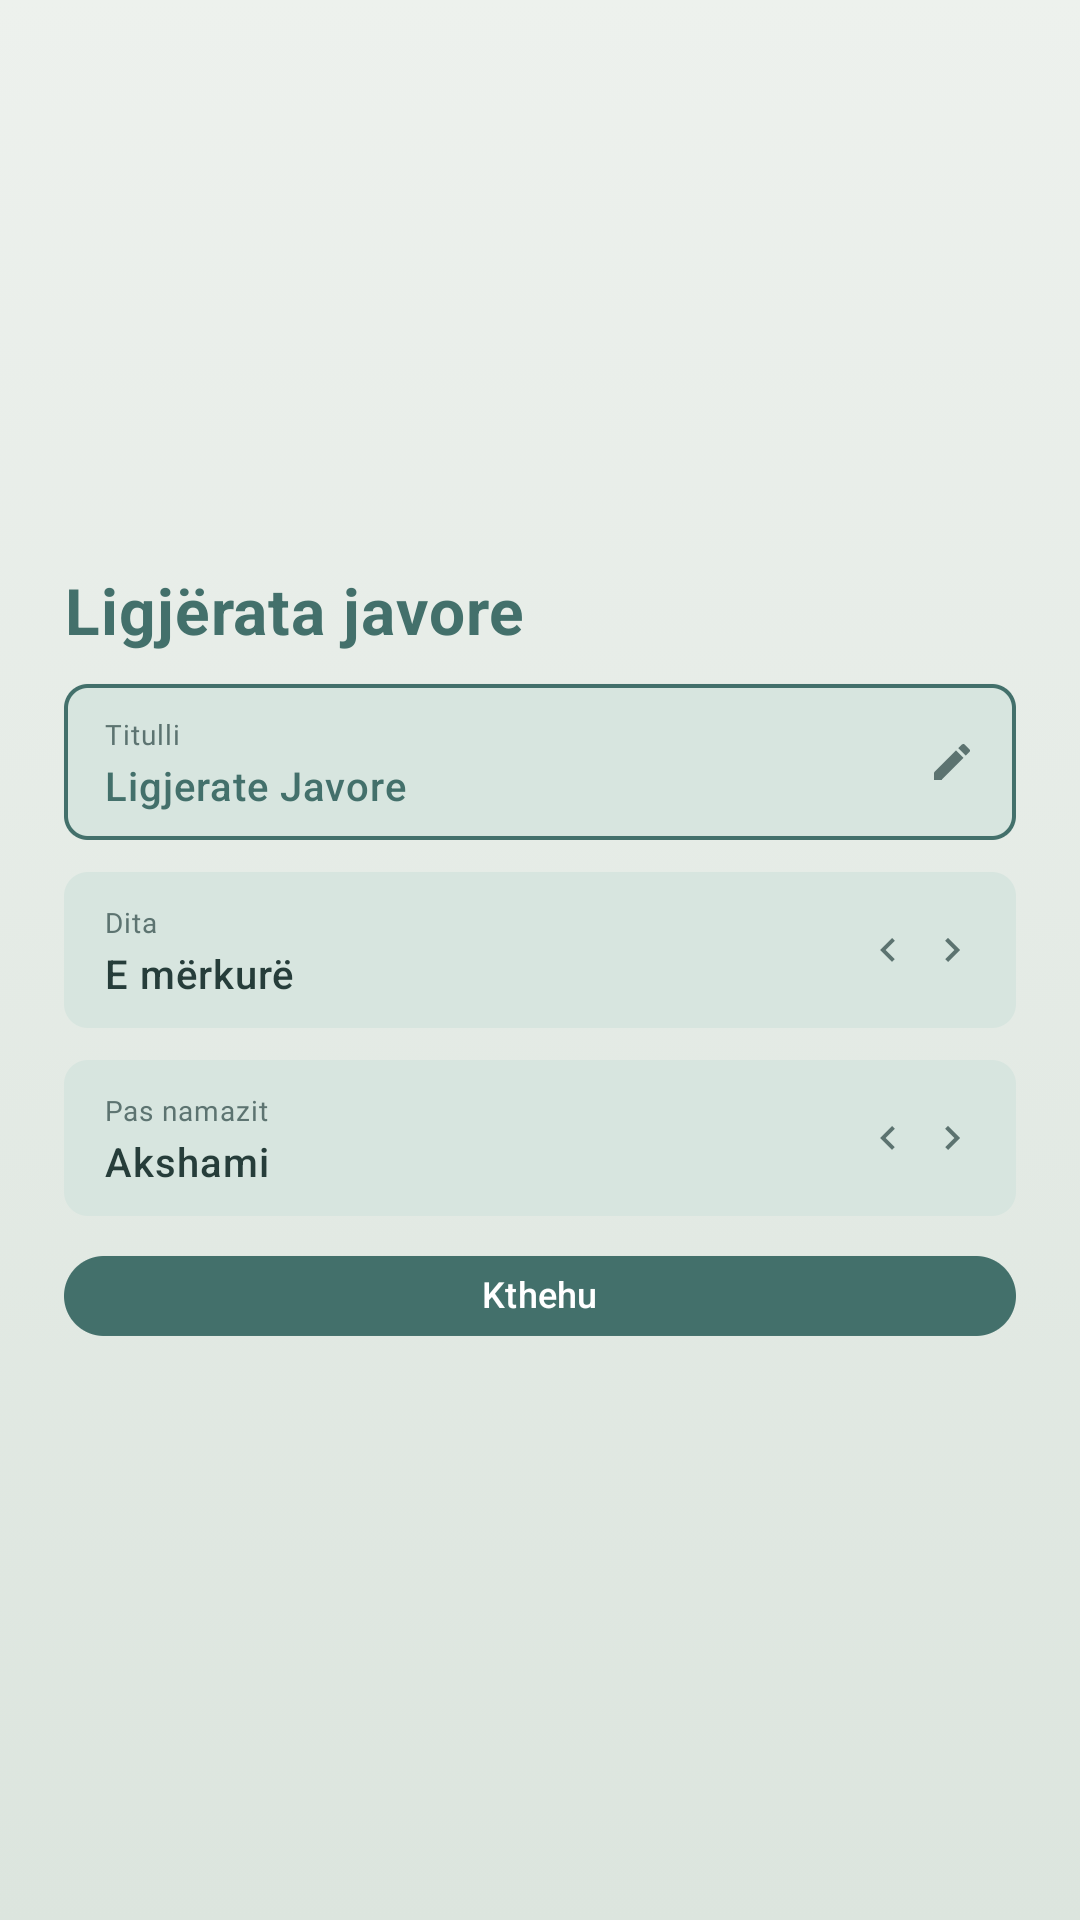
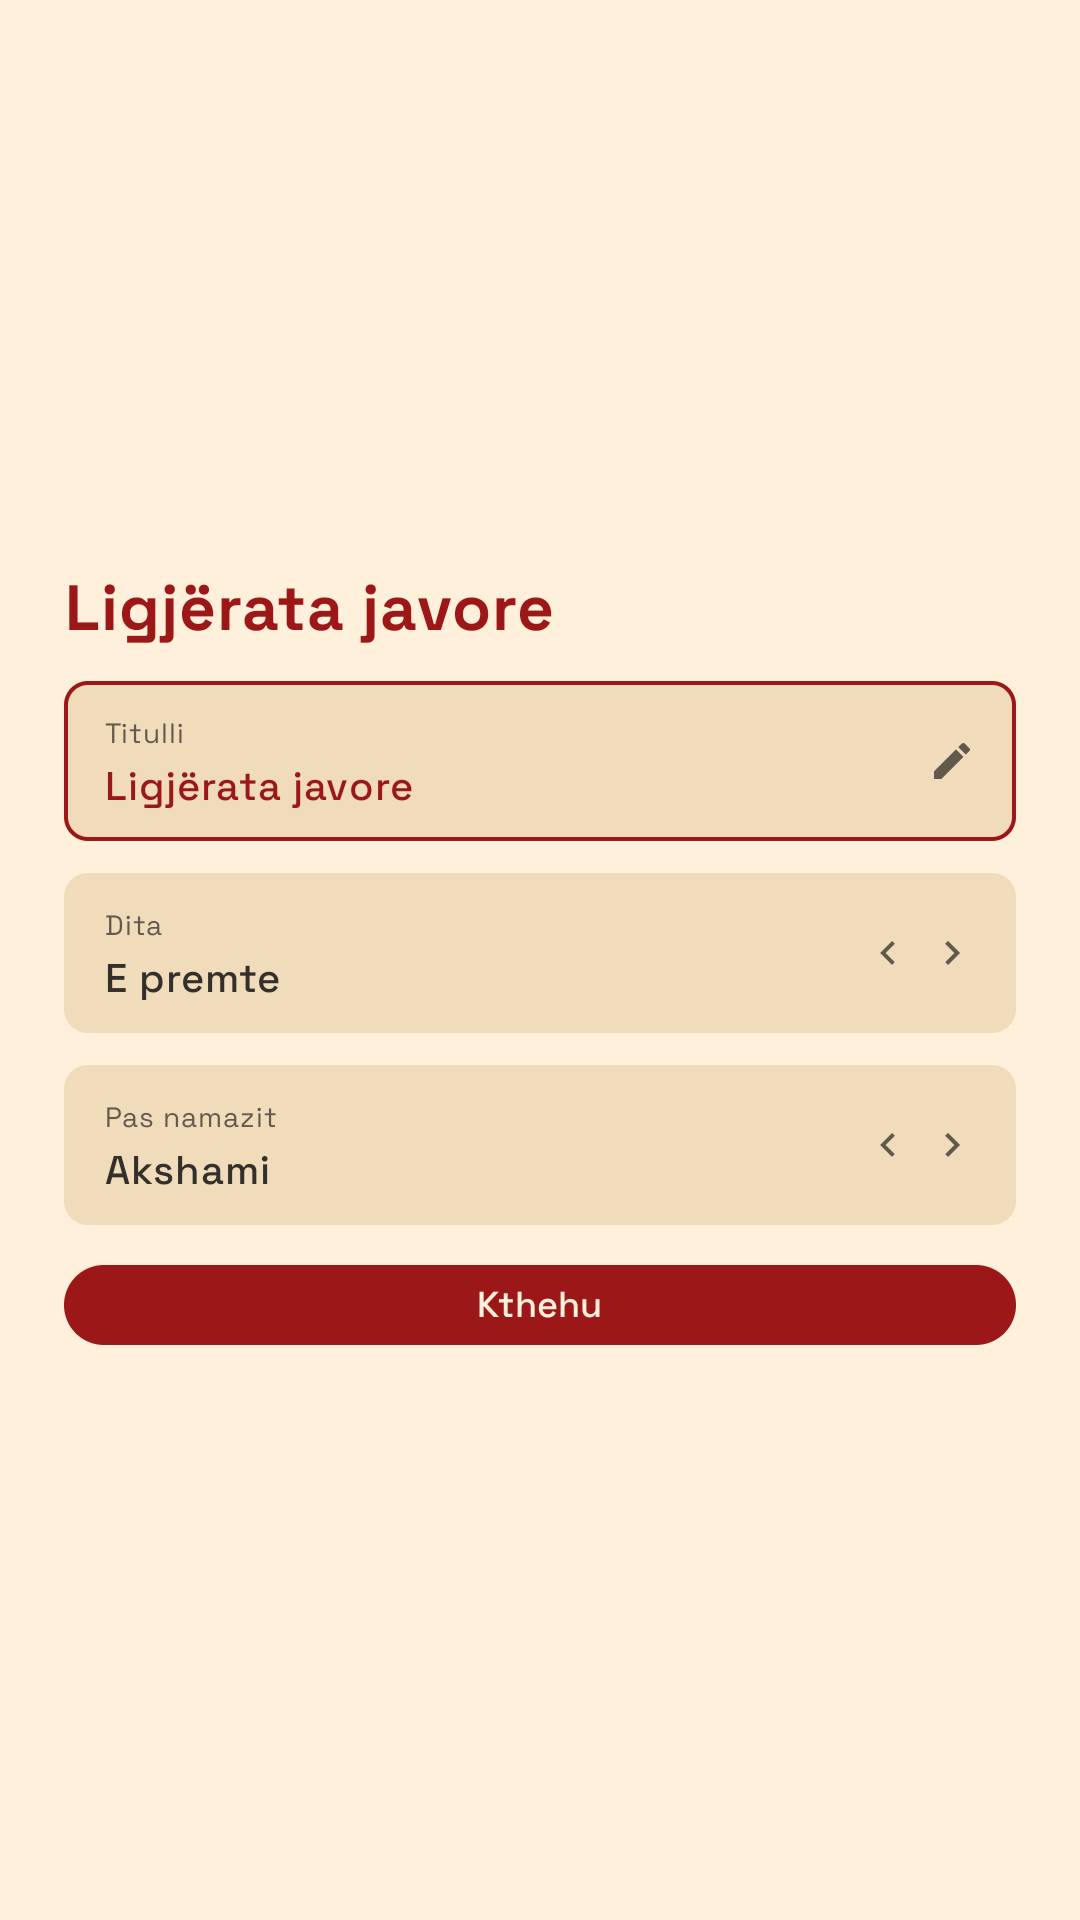
Add weekly theme rotation feature with light and dark variants

diff --git a/README.md b/README.md
@@ -48,8 +48,8 @@ Between Jacia (plus a configurable delay, so the congregation still sees the nor
 
 <table>
   <tr>
-    <td align="center"><b>Portrait board</b> (Gold theme)</td>
-    <td align="center"><b>Friday</b> — lecture banner, rotating notice card, pinned salawat (Green theme)</td>
+    <td align="center"><b>Portrait board</b> (Mushaf theme)</td>
+    <td align="center"><b>Friday</b> — lecture banner, rotating notice card, pinned salawat (Zaytun theme)</td>
   </tr>
   <tr>
     <td><img src="docs/screenshots/portrait-board.png" width="340" alt="Portrait prayer board"></td>
@@ -57,24 +57,24 @@ Between Jacia (plus a configurable delay, so the congregation still sees the nor
   </tr>
 </table>
 
-**Landscape board on a Friday** (Midnight theme) — weekly lecture banner and notice card flanking the clock:
+**Landscape board on a Friday** (Nila dark theme) — weekly lecture banner and notice card flanking the clock:
 
 <img src="docs/screenshots/landscape-friday.png" width="720" alt="Landscape board with lecture banner and notice card">
 
-**Khutbah mode** — during the khutbah the board is replaced by rotating Jumu'ah hadiths and verses (Qur'anic Arabic + translation, key phrases highlighted):
+**Khutbah mode** (Hibr dark theme) — during the khutbah the board is replaced by rotating Jumu'ah hadiths and verses (Qur'anic Arabic + translation, key phrases highlighted):
 
 <img src="docs/screenshots/khutbah-verse.png" width="720" alt="Khutbah mode showing a Qur'an verse with Arabic and translation">
 
 <table>
   <tr>
-    <td align="center"><b>Khutbah mode</b> in portrait — full hadith narration with the key phrase highlighted</td>
+    <td align="center"><b>Khutbah mode</b> in portrait (Mushaf dark theme) — full hadith narration with the key phrase highlighted</td>
   </tr>
   <tr>
     <td><img src="docs/screenshots/khutbah-portrait.png" width="340" alt="Khutbah mode in portrait with a hadith"></td>
   </tr>
 </table>
 
-**Night energy saver** — after Isha the board switches to the selected theme's dark variant, until Imsak:
+**Night energy saver** — after Isha the board switches to the selected theme's dark variant (here Zaytun → Zaytun dark), until Imsak:
 
 <img src="docs/screenshots/night-saver.png" width="720" alt="Night energy saver black theme">
 
